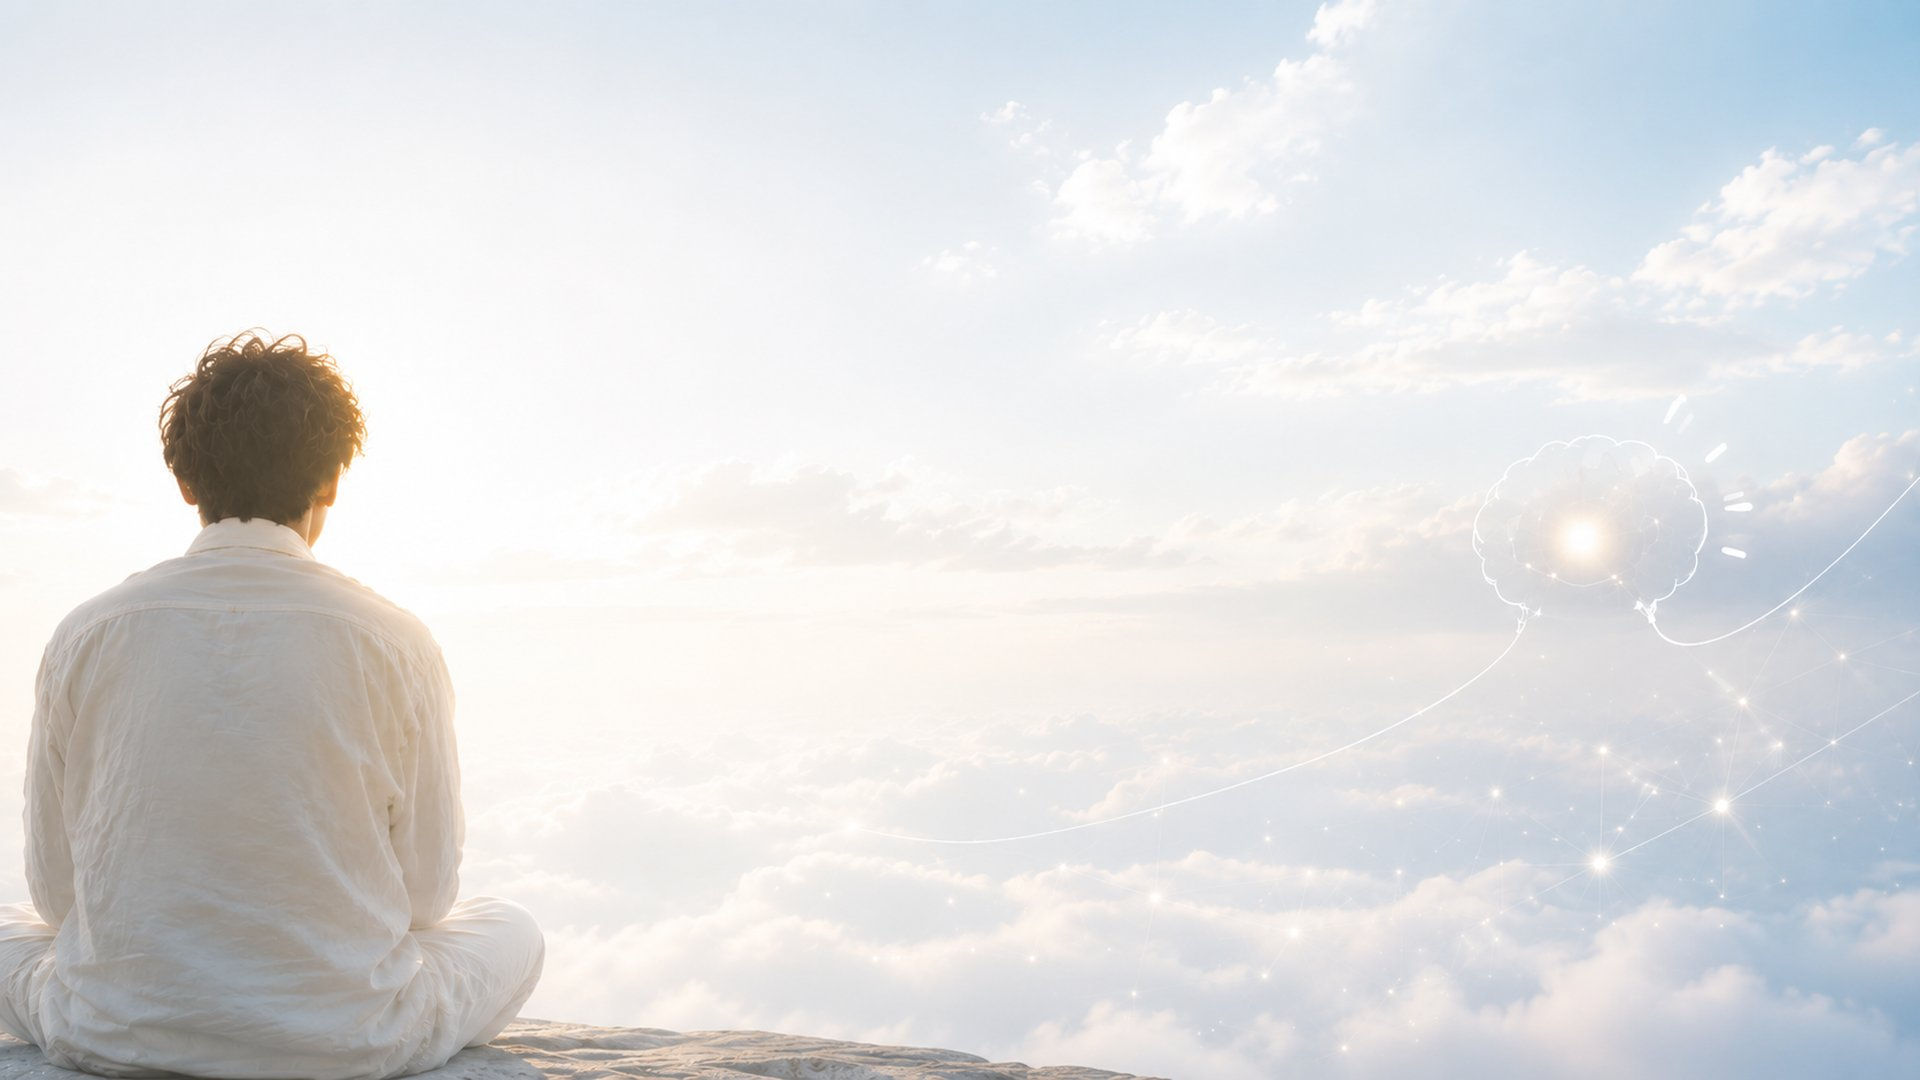
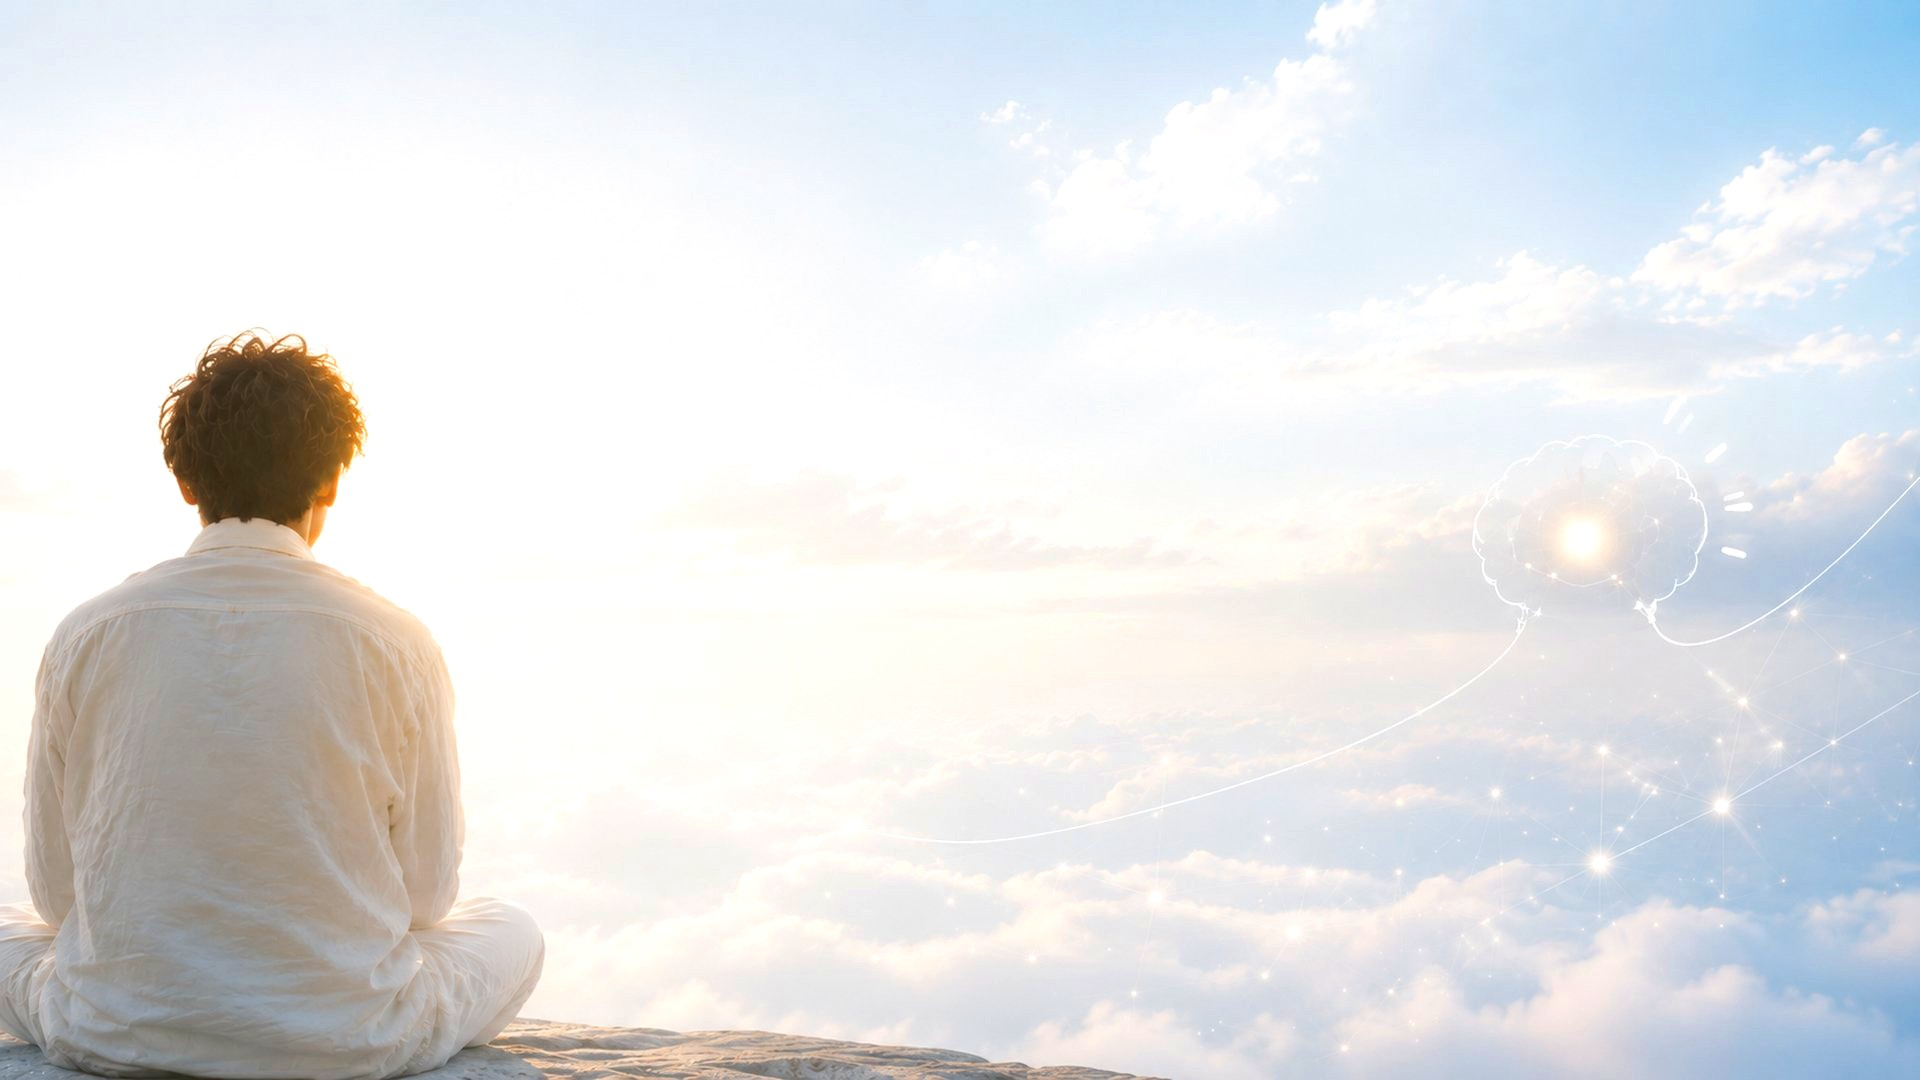
Heroサブコピー変更・背景画像の彩度調整と人物が見える位置へ再配置

Changed region(s): [[0.0625, 0.3056, 0.1875, 0.5194]]

diff --git a/index.html b/index.html
@@ -135,7 +135,7 @@
   .menu-btn{display:none;background:none;border:0;font-size:22px;cursor:pointer;color:var(--ink);}
 
   /* hero */
-  .hero{padding-top:140px;padding-bottom:var(--gap);position:relative;background-image:linear-gradient(to bottom, rgba(255,255,255,0) 0%, rgba(255,255,255,.05) 60%, #FFFFFF 94%), url('images/hero-bg-sky.jpg');background-size:cover;background-position:center 25%;background-repeat:no-repeat;}
+  .hero{padding-top:140px;padding-bottom:var(--gap);position:relative;background-image:linear-gradient(to bottom, rgba(255,255,255,0) 0%, rgba(255,255,255,.05) 60%, #FFFFFF 94%), url('images/hero-bg-sky.jpg');background-size:cover;background-position:8% center;background-repeat:no-repeat;}
   .hero-grid{display:grid;grid-template-columns:minmax(0,1.1fr) minmax(0,.9fr);gap:56px;align-items:center;}
   .hero h1{font-size:clamp(34px,6vw,62px);letter-spacing:.03em;}
   .hero h1 .light{display:block;font-size:.4em;font-weight:600;color:var(--gold);letter-spacing:.2em;margin-bottom:18px;font-family:"Noto Sans JP",sans-serif;}
@@ -174,11 +174,10 @@
   .hero-inquiry-note{font-size:13px;color:var(--sub);margin-top:18px;}
   .hero-inquiry-note a{color:var(--gold);font-weight:600;text-decoration:underline;}
   .hero-cta-reassure{font-size:14px;color:var(--sub);line-height:1.9;margin:0 auto 24px;max-width:420px;}
-  .hero-tagline{font-size:clamp(21px,3.4vw,27px);font-weight:700;color:var(--ink);line-height:1.6;margin:0 auto 44px;}
   .hero-icon-row{margin:0 auto 32px;max-width:520px;}
   .hero-icon-row svg{width:100%;height:auto;display:block;}
   .hero-headline{font-size:clamp(28px,4.2vw,42px);font-weight:800;color:var(--ink);line-height:1.5;margin:0 auto 36px;}
-  .hero-tagline{font-size:clamp(15px,1.8vw,17px);font-weight:600;color:var(--sub);line-height:1.8;margin:-20px auto 36px;}
+  .hero-tagline{font-size:clamp(18px,2.2vw,21px);font-weight:600;color:var(--ink);letter-spacing:.01em;line-height:1.9;margin:0 auto 40px;max-width:440px;}
   .hero-kicker{font-size:13px;font-weight:700;color:var(--gold);letter-spacing:.06em;margin:0 auto 18px;}
   .hero-subcopy{font-size:clamp(15px,1.8vw,17px);font-weight:600;color:var(--ink);line-height:1.8;margin:0 auto 30px;max-width:560px;}
   .hero-supplement{font-size:15px;font-weight:400;color:var(--sub);line-height:1.9;margin:0 auto 28px;max-width:620px;}
@@ -591,7 +590,7 @@
     </div>
     <p class="hero-kicker">思考整理の参謀・窪田成功</p>
     <h1 class="hero-headline" style="position:relative;left:0.5em;">頭の中に、空白を。</h1>
-    <p class="hero-tagline">〜小さなストレスを、進化のきっかけに。〜</p>
+    <p class="hero-tagline">小さなストレスを整理し、<br>AI・言葉・仕組みで、<br>本業に集中できる形へ。</p>
     <p class="hero-supplement">頭の中には考えがあるのに、うまく整理できない。<br>やるべきことは分かっているのに、なぜか手が止まる。<br>そんな言葉にならない違和感から、<br>今の状況、本当に大切なこと、自分に合う次の一手を一緒に整理します。<br>必要に応じて、AI・人・言葉・手順を使い、<br>本業に集中しやすい形まで整えます。</p>
     <p class="hero-subcopy">本業に集中したい<br>個人事業主・店主・ひとり社長へ。</p>
     <a href="https://tally.so/r/zxog7M" class="hero-cta line-cta" style="margin:4px auto 0;" target="_blank" rel="noopener">小さなストレス診断をする(3分) <span class="arr">→</span></a>
